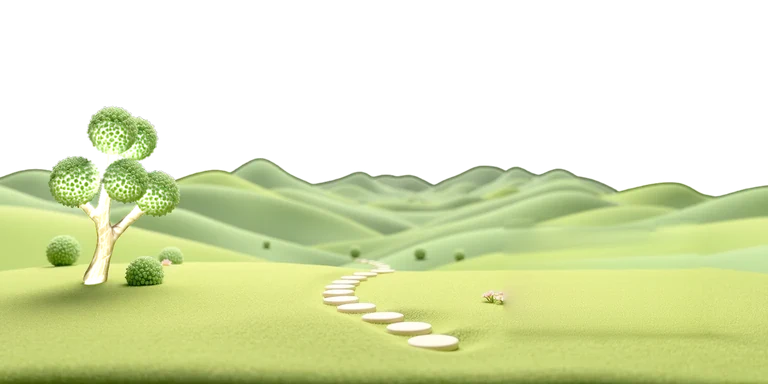
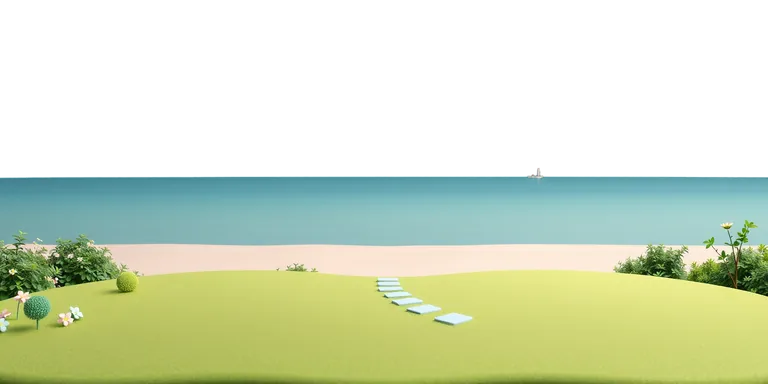
신앙 정원 배경: 산을 없애고 바다가 보이는 운평리로 — 잔디·모래밭·바다(교회PC 로컬 AI, 같은 점토 화풍) · 교회를 먼 언덕에서 잔디 위 가까이로 (담임목사 지시)
- mid/hills.webp·768 을 바다 그림으로(assets.json hills 프롬프트·시드 5704, manifest 20261024sea1)
- scene.js: 잔디 끝(CREST)을 새 그림에서 다시 잼, 교회 자리 x540·y614·높이 200(공사 터 140), z 는 밭 뒷줄 사이
- garden3d.js: 입체 정원 바닥 잔디를 그림의 디딤돌·꽃 없는 곳에서 떼어 씀

diff --git a/js/garden/scene.js b/js/garden/scene.js
@@ -182,17 +182,18 @@ window.GardenScene = (function () {
     drawChurch();
   }
 
-  /* ── 교회: 성도들의 건축헌금으로 지은 교회(가장 최근 것)와 짓는 중인 공사 터 — 언덕 위, 모든 성도에게 같은 교회 (2026-10-23 담임목사)
+  /* ── 교회: 성도들의 건축헌금으로 지은 교회(가장 최근 것)와 짓는 중인 공사 터 — 바다 앞 잔디 위, 모든 성도에게 같은 교회 (2026-10-23 담임목사)
      plot 층에 둔다(그 층이 화면 전체를 덮어 mid 층 것은 눌리지 않는다). 언덕 그림을 다시 그려도(계절) 그대로
      v = { src, name, site:{src,name} } | null (build.js). 누르면 스토어 '교회 건축'(o.onOpen) ── */
-  // 믿음 나무(x 890) 왼쪽 언덕 — 휴대폰(가운데 x 430~1170 만 보임)과 PC(오른쪽 칸이 덮음) 모두에서 보이는 자리
-  var CHURCH_AT = { x: 660, y: 482, h: 120, siteH: 80 };
+  // 믿음 나무(x 890) 왼쪽, 바다 앞 잔디 위 — 휴대폰(가운데 x 430~1170 만 보임)과 PC(오른쪽 칸이 덮음) 모두에서 보이는 자리
+  // 2026-10-24 담임목사 "교회가 너무 멀리 있습니다" → 먼 언덕(y 482·높이 120)에서 잔디 위 가까이로. z 는 밭 뒷줄 사이(앞줄이 교회 밑을 가림)
+  var CHURCH_AT = { x: 540, y: 614, h: 200, siteH: 140, z: 91 };
   function setChurch(v, o) { S.church = v ? { v: v, o: o || {} } : null; drawChurch(); }
   function drawChurch() {
     if (S.el.church) { S.el.church.remove(); S.el.church = null; }
     if (!S.church || !S.el.plot) return;
     var v = S.church.v, o = S.church.o, box = el('div', 'g-church'), names = [];
-    box.style.left = CHURCH_AT.x + 'px'; box.style.top = CHURCH_AT.y + 'px';
+    box.style.left = CHURCH_AT.x + 'px'; box.style.top = CHURCH_AT.y + 'px'; box.style.zIndex = CHURCH_AT.z;
     [[v.src, CHURCH_AT.h, '', v.name], [v.site && v.site.src, CHURCH_AT.siteH, ' is-site', v.site && v.site.name]].forEach(function (c) {
       if (!c[0]) return;
       var im = el('img', 'g-church-img' + c[2]); im.src = c[0]; im.alt = ''; im.draggable = false; im.style.height = c[1] + 'px';
@@ -253,8 +254,8 @@ window.GardenScene = (function () {
      땅 곡면: 뒷줄은 잔디 언덕 능선(CREST) 아래에서 멈추고, 줄은 가운데가 높고 양옆이 낮은 둥근 언덕을 따라 휜다(bend)
      — 담임목사 "공중에 떠 있습니다. 지면의 곡률에 따라 적용되어야 합니다" */
   var FIELD = { rows: 6, ahead: 3, pitch: 116, yFront: 740, gapTop: 12, bend: 36, depth: 0.3, treeK: 0.95 };
-  /* 잔디 언덕 능선(먼 산과 만나는 선) — 언덕 그림 mid/hills.webp 에서 잰 설계 좌표 [x, y] */
-  var CREST = [[0, 520], [330, 520], [420, 505], [500, 528], [600, 548], [700, 555], [900, 560], [1450, 558], [1600, 566]];
+  /* 잔디 끝(모래밭과 만나는 선) — 바다 그림 mid/hills.webp(2026-10-24 '운평리는 바다가 보이는 곳')에서 잰 설계 좌표 [x, y]. 그림을 바꾸면 다시 잰다 */
+  var CREST = [[0, 560], [300, 570], [500, 562], [700, 568], [800, 572], [900, 570], [1100, 561], [1300, 562], [1600, 562]];
   function crestAt(x) {
     for (var j = 1; j < CREST.length; j++) {
       if (x <= CREST[j][0] || j === CREST.length - 1) { var a = CREST[j - 1], b = CREST[j], t = Math.max(0, Math.min(1, (x - a[0]) / (b[0] - a[0]))); return a[1] + (b[1] - a[1]) * t; }

diff --git a/js/garden/garden3d.js b/js/garden/garden3d.js
@@ -319,13 +319,13 @@ window.Garden3D = (function () {
         scene.add(clouds);
       }
 
-      // 잔디: 언덕 그림 앞쪽 잔디(아래 83~93%, 왼쪽 40%)를 떼어 거울로 이어 깐다 → 정원 장면과 같은 점토 잔디
+      // 잔디: 배경 그림 앞쪽 잔디(아래 86~96%, 오른쪽 62~96% — 바다 그림의 디딤돌·꽃이 없는 곳)를 떼어 거울로 이어 깐다 → 정원 장면과 같은 점토 잔디
       var wet = (kind === 'rain') ? 1 : 0, snowK = kind === 'snow' ? 0.7 : 0;
       function tint(c) { return c.multiplyScalar(1 - wet * 0.2).lerp(new T.Color(0.95, 0.96, 1), snowK); }
       var lawnCv = null;
       if (img.hills) {
         lawnCv = document.createElement('canvas'); lawnCv.width = 256; lawnCv.height = 128;
-        lawnCv.getContext('2d').drawImage(img.hills, 0, img.hills.height * 0.83, img.hills.width * 0.4, img.hills.height * 0.1, 0, 0, 256, 128);
+        lawnCv.getContext('2d').drawImage(img.hills, img.hills.width * 0.62, img.hills.height * 0.86, img.hills.width * 0.34, img.hills.height * 0.1, 0, 0, 256, 128);
       }
       function lawnMat(rep, color, glow) {
         var m = new T.MeshStandardMaterial({ roughness: 1, color: color, emissive: new T.Color(1, 1, 1), emissiveIntensity: glow * (0.25 + 0.75 * day) });

diff --git a/garden.html b/garden.html
@@ -306,14 +306,14 @@
   <script src="js/main.js?v=20261023lib1"></script>
   <script src="js/garden/i18n.js?v=20261024sd1"></script>
   <script src="js/garden/sdk.js?v=20261024bd2"></script>
-  <script src="js/garden/scene.js?v=20261024bd2"></script>
+  <script src="js/garden/scene.js?v=20261024sea1"></script>
   <script src="js/garden/hud.js?v=20261024bd2"></script>
   <script src="js/garden/plantsim.js?v=20261024bd2"></script>
   <script src="js/garden/shop.js?v=20261024bd2"></script>
   <script src="js/garden/farm.js?v=20261024bd2"></script>
   <script src="js/garden/storage.js?v=20261024bd2"></script>
   <script src="js/garden/build.js?v=20261024bd2"></script>
-  <script src="js/garden/garden3d.js?v=20261024sd1"></script>
+  <script src="js/garden/garden3d.js?v=20261024sea1"></script>
   <script src="js/garden/visit.js?v=20261023gb1"></script>
   <script src="js/garden/guide.js?v=20261024ec1"></script>
   <script src="js/garden/region.js?v=20261023wx1"></script>
